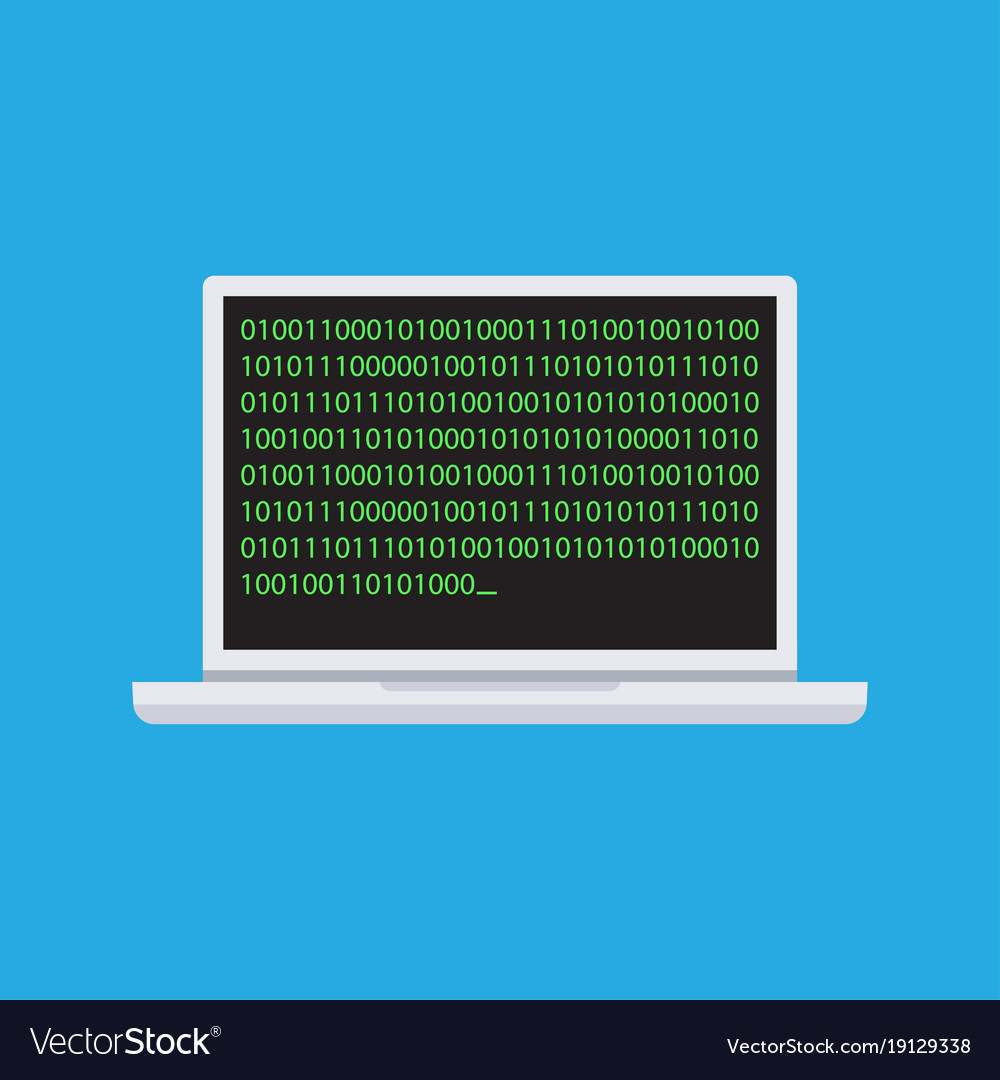
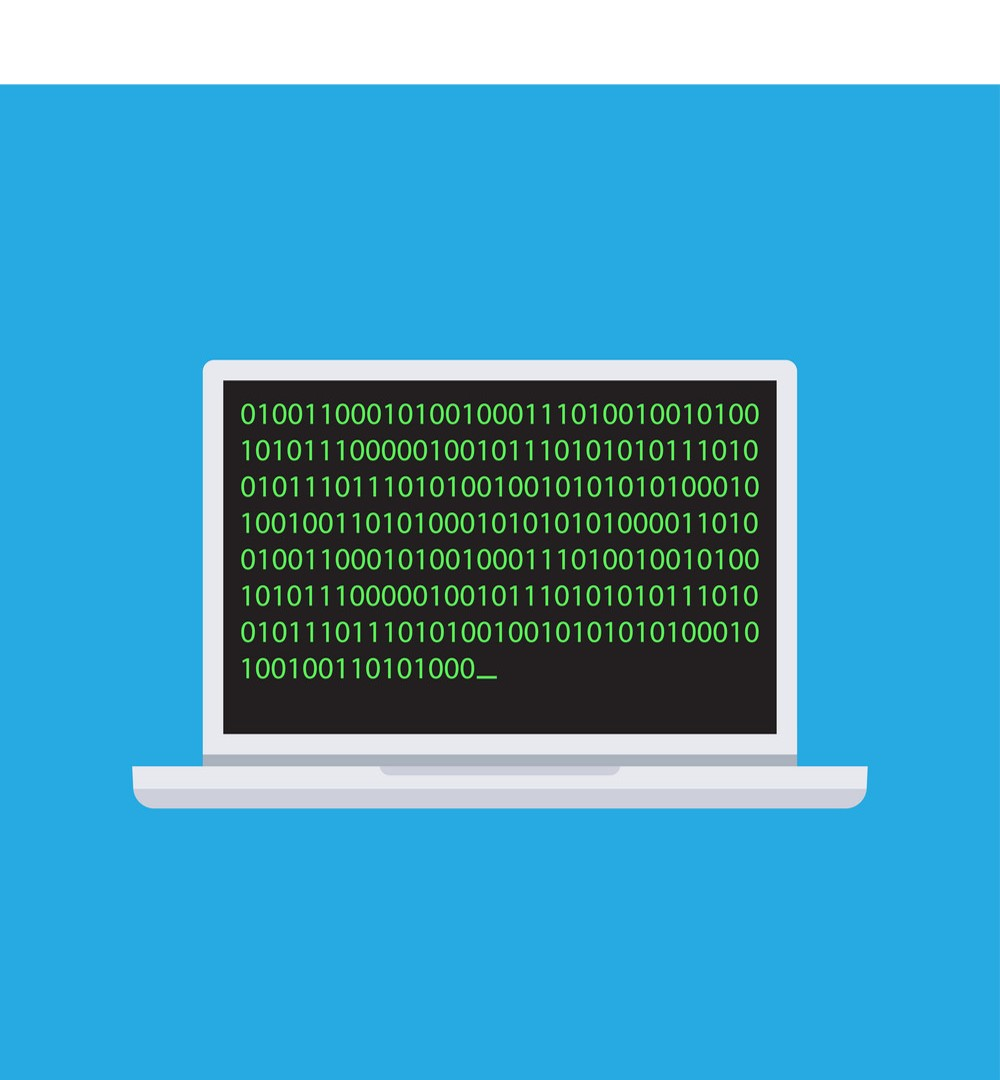
adding comments into the css file

diff --git a/BootstrapMaster/css/custom.css b/BootstrapMaster/css/custom.css
@@ -104,11 +104,6 @@ blockquote {
   background-color:#172838;
 }
 
-@media onyl screen and (max-width: 576px;) {
-  .content h1 {
-    font-size:40px;
-  }
-
   .form-inline button {
     margin-top:10px;
   }
@@ -129,6 +124,13 @@ h2 {
   font-style: italic;
 }
 
+#binary_image {
+  margin-top:100px;
+  border-radius:15px;
+  width:100%;
+  height:20%;
+}
+
 p {
   font-size:20px;
 }
@@ -138,4 +140,94 @@ p {
   border-radius:15px;
   width:100%;
   height:25%;
+}
+
+/*media queries */
+
+@media screen and (min-width: 800px) {
+  #code_image {
+    margin-top:50px;
+    border-radius:15px;
+    width:100%;
+    height:25%;
+  }
+
+  #binary_image {
+    margin-top:100px;
+    border-radius:15px;
+    width:100%;
+    height:20%;
+  }
+
+  #quote {
+    padding-top:500px;
+    padding-bottom:300px;
+    font-size:35px;
+    background-color:#ffba66;
+    color:black;
+    border-radius: 15px;
+    margin-top:100px;
+    font-style: italic;
+  }
+
+  #buzz {
+    padding-top:50px;
+    padding-bottom:50px;
+  }
+
+  #colophon {
+    padding-top:50px;
+  }
+
+  h2 {
+    margin-bottom:50px;
+    margin-top:50px;
+  }
+
+  blockquote {
+    line-height: 1.2;
+  }
+
+  .blockquote-footer {
+    font-size:70%;
+  }
+
+  .content {
+    background-image: url('../images/background.jpg');
+    background-repeat:no-repeat;
+    background-size:cover;
+    border-radius:0;
+    min-height:600px;
+    margin-bottom:50px;
+  }
+
+  #about {
+    background-color: rgba(32,35,41,0.9);
+    color:#ddd;
+    padding:50px 0;
+    margin-top: 70px;
+
+  }
+
+  .form-inline label {
+    font-size: 20px;
+    font-weight:bold;
+    color:white;
+    width:100%;
+    justify-content: flex-start;
+  }
+
+  .form-inline input {
+    min-width:300px;
+    margin-right: 10px;
+  }
+
+  .navbar {
+    background-color:#172838;
+  }
+
+  .content {
+    padding-top:100px;
+  }
+
 }

diff --git a/BootstrapMaster/katherine.html b/BootstrapMaster/katherine.html
@@ -54,7 +54,7 @@
 <div class="row">
 
 	<div class="col-sm">
-		<img id="code_image" src="images/binary.jpg" />
+		<img id="binary_image" src="images/binary.jpg" />
 		<p id="quote">
 			"The more I study, the more insatiable do I feel my genius for it to be."
 		</p>
